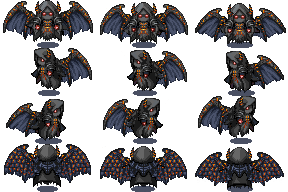
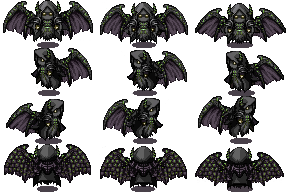
New animation for monster spell

diff --git a/js/configs/objects/effects.js b/js/configs/objects/effects.js
@@ -2,7 +2,7 @@ var config = {
     mbullet : {
         zIndex : 3,
         collisions: true,
-        sprite: ['img/darkblast.png',[0, 0], [38, 38], 12, [0, 1, 2 ,3]],
+        sprite: ['img/darkblast.png', [0, 0], [38, 38], 12, [0, 1, 2 ,3]],
         type : 'monsterSpellElement',
         render: 'object',
         size : [32, 32],
@@ -16,17 +16,17 @@ var config = {
     mbullet2 : {
         zIndex : 3,
         collisions: true,
-        sprite: ['effects',[0, 0], [32, 32], 10, [0, 1, 2]],
+        sprite: ['bossSpell', [0, 0], [30, 26], 10, [0, 1, 2]],
         type : 'monsterSpellElement',
         render: 'object',
-        size : [32, 32],
+        size : [28, 24],
         conditions : ['monsterBoss2Bullet'],
         parameters : {
             power : 15,
             cooldown: 100,
             speed: 200
         },
-        rules : ['destroyAfterLeavingLayer', 'setDirectionToPlayer', 'moveToDirection', 'dynamicZIndex']
+        rules : ['destroyAfterLeavingLayer', 'setDirectionToPlayer', 'rotateByDirection', 'moveToDirection', 'dynamicZIndex']
     },
     blood : {
         zIndex : 2,

diff --git a/js/engine/renderers.js b/js/engine/renderers.js
@@ -57,7 +57,7 @@ function shadow(obj) {
         ctx.globalAlpha = 0.5;
 
         ctx.beginPath();
-        utils.ellipse(ctx, 0, +obj.sprite.size[1] / 2 - 3, obj.size[0] / 2 + 8, 5, utils.getRadians(0), utils.getRadians(0), utils.getRadians(360));
+        utils.ellipse(ctx, 0, + obj.sprite.size[1] / 2 - 3, Math.min(obj.sprite.size[0], obj.size[0]) / 2 + 8, 5, utils.getRadians(0), utils.getRadians(0), utils.getRadians(360));
         ctx.fillStyle = 'black';
         ctx.fill();
 
@@ -72,7 +72,7 @@ function effects(obj) {
         var effect = effects[i];
         if (effect == 'frozen') {
             ctx.globalAlpha = 0.8;
-            ctx.drawImage(obj.layer.game.cache.getImage('frostEffect'), - obj.sprite.size[0] / 2, -8, 32, 32);
+            ctx.drawImage(obj.layer.game.cache.getImage('frostEffect'), -16, + (obj.sprite.size[1] / 2) - 32, 32, 32);
             ctx.globalAlpha = 1;
         }
     }

diff --git a/js/phaser/states/loading.js b/js/phaser/states/loading.js
@@ -14,6 +14,7 @@ class Loading extends Phaser.State {
 
         this.game.load.image('bigMonsters', './img/bigMonsters.png');
         this.game.load.image('boss', './img/boss.png');
+        this.game.load.image('bossSpell', './img/bossSpell.png');
         this.game.load.image('monsterBlood', './img/sblood.png');
         this.game.load.image('bloodEffect', './img/bloods.png');
         this.game.load.image('cursor', './img/cursor.png');
